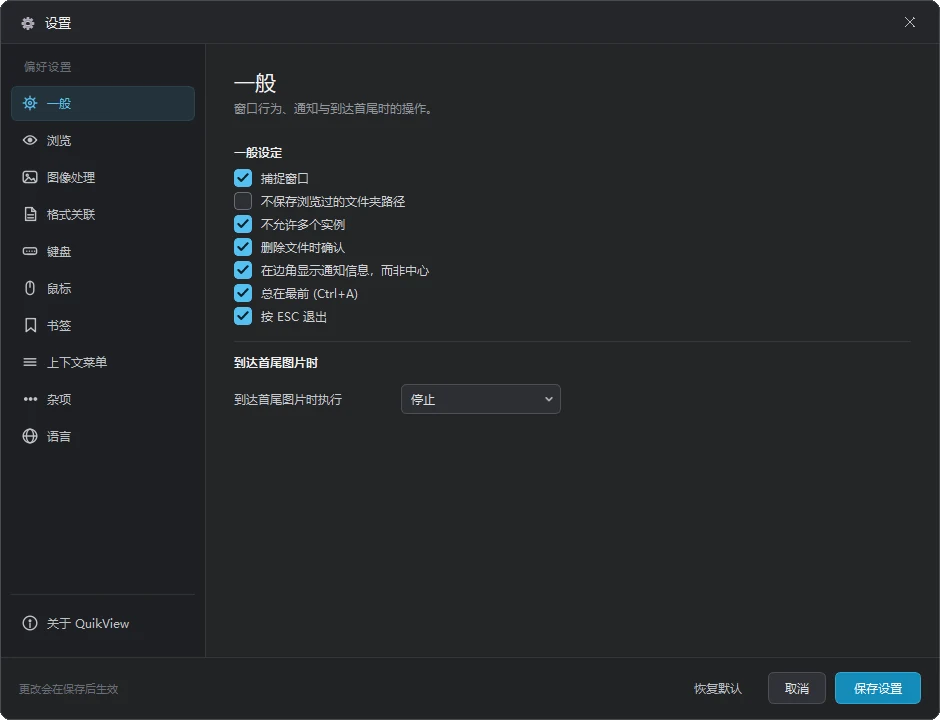
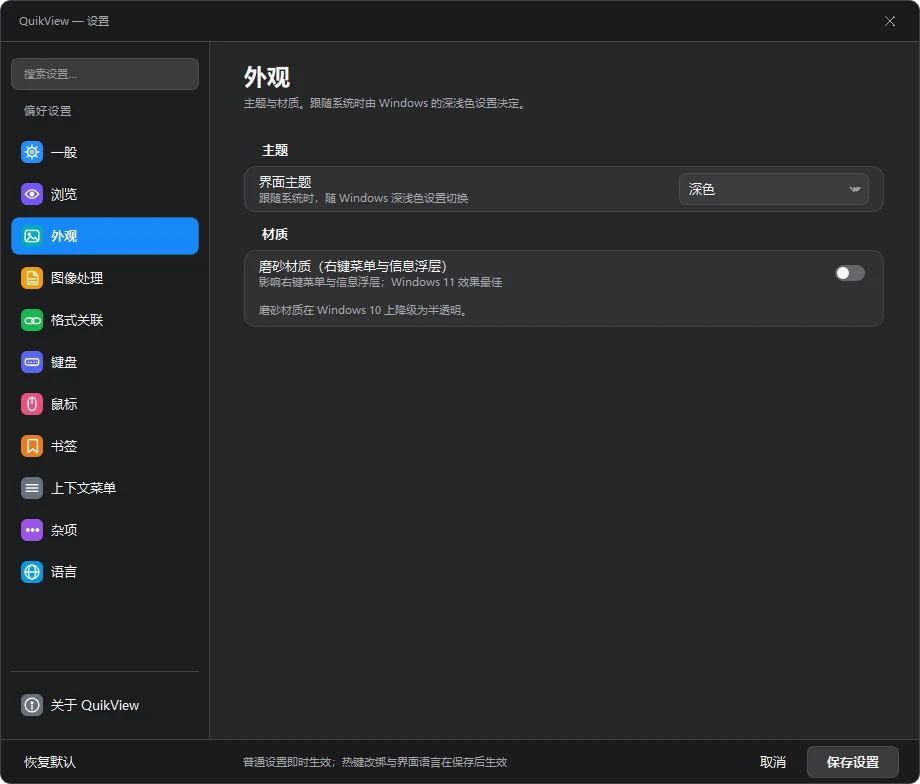
docs(screenshots): 重拍 0.5.0 展示图并修正索引与素材归属
10 张 WebP 全部改为 0.5.0 实机自渲染；SCREENSHOTS.md 更新为底部横向胶片栏、缩放胶囊 100%、11 个设置分类；ATTRIBUTION.md 第 6 节列出 6 个 Unsplash photo ID 并移除已不适用的 EXIF 写入表述。

diff --git a/docs/SCREENSHOTS.md b/docs/SCREENSHOTS.md
@@ -2,6 +2,8 @@
 
 [← 返回 README](../README.md)
 
+> 本页图集基于 **QuikView 0.5.0** 界面（2026-11-13 重拍）。
+
 以下截图全部由 **QuikView 自身渲染**（`--screenshot` 走 Qt 内部绘制，不是系统抓屏），
 所以不受显示器 DPI 缩放影响，和你在屏幕上看到的一致。
 
@@ -23,10 +25,11 @@ when the pointer leaves — the image always gets the whole window.
 
 ## 2. 缩略图浏览 · Thumbnail browser
 
-此图为旧版左侧缩略图。开发版已改为底部横向胶片栏，按可见范围异步生成缩略图，点击即切换。
+底部横向胶片栏：按可见范围异步生成缩略图，保留照片比例，支持滚轮浏览；点击切换时当前项高亮并自动居中，开合不推动主图与控制栏。
 
-Vertical thumbnail rail on the left, generated asynchronously. Click to switch; a folder with
-hundreds of files will not block the UI.
+A horizontal filmstrip along the bottom: thumbnails are generated asynchronously for the visible
+range, keep their aspect ratio, and scroll with the wheel. Clicking one highlights and centers it;
+opening or closing the strip never shifts the image or the control island.
 
 ![缩略图浏览](screenshots/02-thumbnails.webp)
 
@@ -59,10 +62,10 @@ For photo books, comics and scans: two pages side by side at spread width, one k
 
 ## 5. 1:1 看像素 · 100% pixel view
 
-切到实际大小，一张 2800×1867 的原图按像素铺满窗口，噪点和星点都看得见，不是插值糊出来的。
+点底部缩放胶囊切到 100%，照片按原始像素显示，树叶纹理和噪点都不被插值抹掉。
 
-Switch to actual size: a 2800×1867 original laid out pixel for pixel — noise and stars stay
-visible instead of being smoothed away.
+Tap the zoom capsule to switch to 100%: the photo is shown pixel for pixel, so fine texture and
+grain stay visible instead of being smoothed away.
 
 ![100% 原图](screenshots/05-zoom.webp)
 
@@ -103,10 +106,11 @@ Originals are kept by default.
 
 ## 9. 设置 · Settings
 
-左侧十个分类，右侧就地生效的选项：一般、浏览、图像处理、格式关联、键盘、鼠标、书签、上下文菜单、杂项、语言。
+左侧十一个分类，右侧就地生效的选项：一般、浏览、外观、图像处理、格式关联、键盘、鼠标、书签、上下文菜单、杂项、语言（另有「关于 QuikView」入口）。
 
-Ten categories on the left, options on the right: general, browsing, image processing, file
-associations, keyboard, mouse, bookmarks, context menu, misc, language.
+Eleven categories on the left, options on the right: general, browsing, appearance, image
+processing, file associations, keyboard, mouse, bookmarks, context menu, misc, language
+(plus an About entry).
 
 ![设置](screenshots/09-settings.webp)
 
@@ -124,8 +128,10 @@ Nothing open? Drop a file in, pick one, or open a whole folder.
 
 ## 关于示例照片 · About the sample photos
 
-截图里的风光照来自 [Unsplash](https://unsplash.com/license)（Unsplash License，可免费使用）。
-它们**只出现在截图里**，不随程序分发，也不在仓库的其它位置出现。EXIF 字段为演示用。
+截图里的照片来自 [Unsplash](https://unsplash.com/license)（Unsplash License，可免费使用、无需署名），
+照片 ID 与授权记录见 [ATTRIBUTION.md](ATTRIBUTION.md) 第 6 节。
+它们**只出现在截图里**，不随程序分发，也不在仓库的其它位置出现。
 
-The landscape photos are from [Unsplash](https://unsplash.com/license) and appear **only inside
-these screenshots**; they are not shipped with the program. EXIF values are for demonstration.
+The photos come from [Unsplash](https://unsplash.com/license) under the Unsplash License;
+photo IDs and the attribution record are in section 6 of [ATTRIBUTION.md](ATTRIBUTION.md).
+They appear **only inside these screenshots** and are not shipped with the program.

diff --git a/docs/ATTRIBUTION.md b/docs/ATTRIBUTION.md
@@ -102,9 +102,16 @@ python tools\03_gen_skin.py --check   # 全量校验，不写盘
 
 ## 6. README 截图里的示例照片
 
-`docs/screenshots/` 下的截图使用了几张风光照片作为画面内容，来源为
-[Unsplash](https://unsplash.com/license)（Unsplash License，可免费商用、无需署名）。
-它们**只出现在截图位图中**，不随程序分发，仓库其它位置也没有原图。
-EXIF 字段（相机 / 镜头 / 光圈 / ISO / GPS）是为演示界面而写入的示意值。
+`docs/screenshots/` 下的截图使用来自 [Unsplash](https://unsplash.com/license) 的照片作为画面内容
+（Unsplash License，可免费使用、无需署名）。0.5.0 图集使用的照片 ID：
 
-README 里的界面截图由程序自身 `--screenshot` 渲染，不含任何第三方界面像素。
+- `photo-1500530855697-b586d89ba3ee`（荒漠公路）
+- `photo-1441974231531-c6227db76b6e`（森林）
+- `photo-1470252649378-9c29740c9fa8`（日出）
+- `photo-1501785888041-af3ef285b470`（湖泊）
+- `photo-1469474968028-56623f02e42e`（山谷）
+- `photo-1519681393784-d120267933ba`（星空）
+
+它们**只出现在截图位图中**，不随程序分发，仓库其它位置也没有原图。
+界面截图由程序自身 `--screenshot` 渲染，不含任何第三方界面像素。
+如界面中出现 EXIF 字段，均为演示用示意值。
